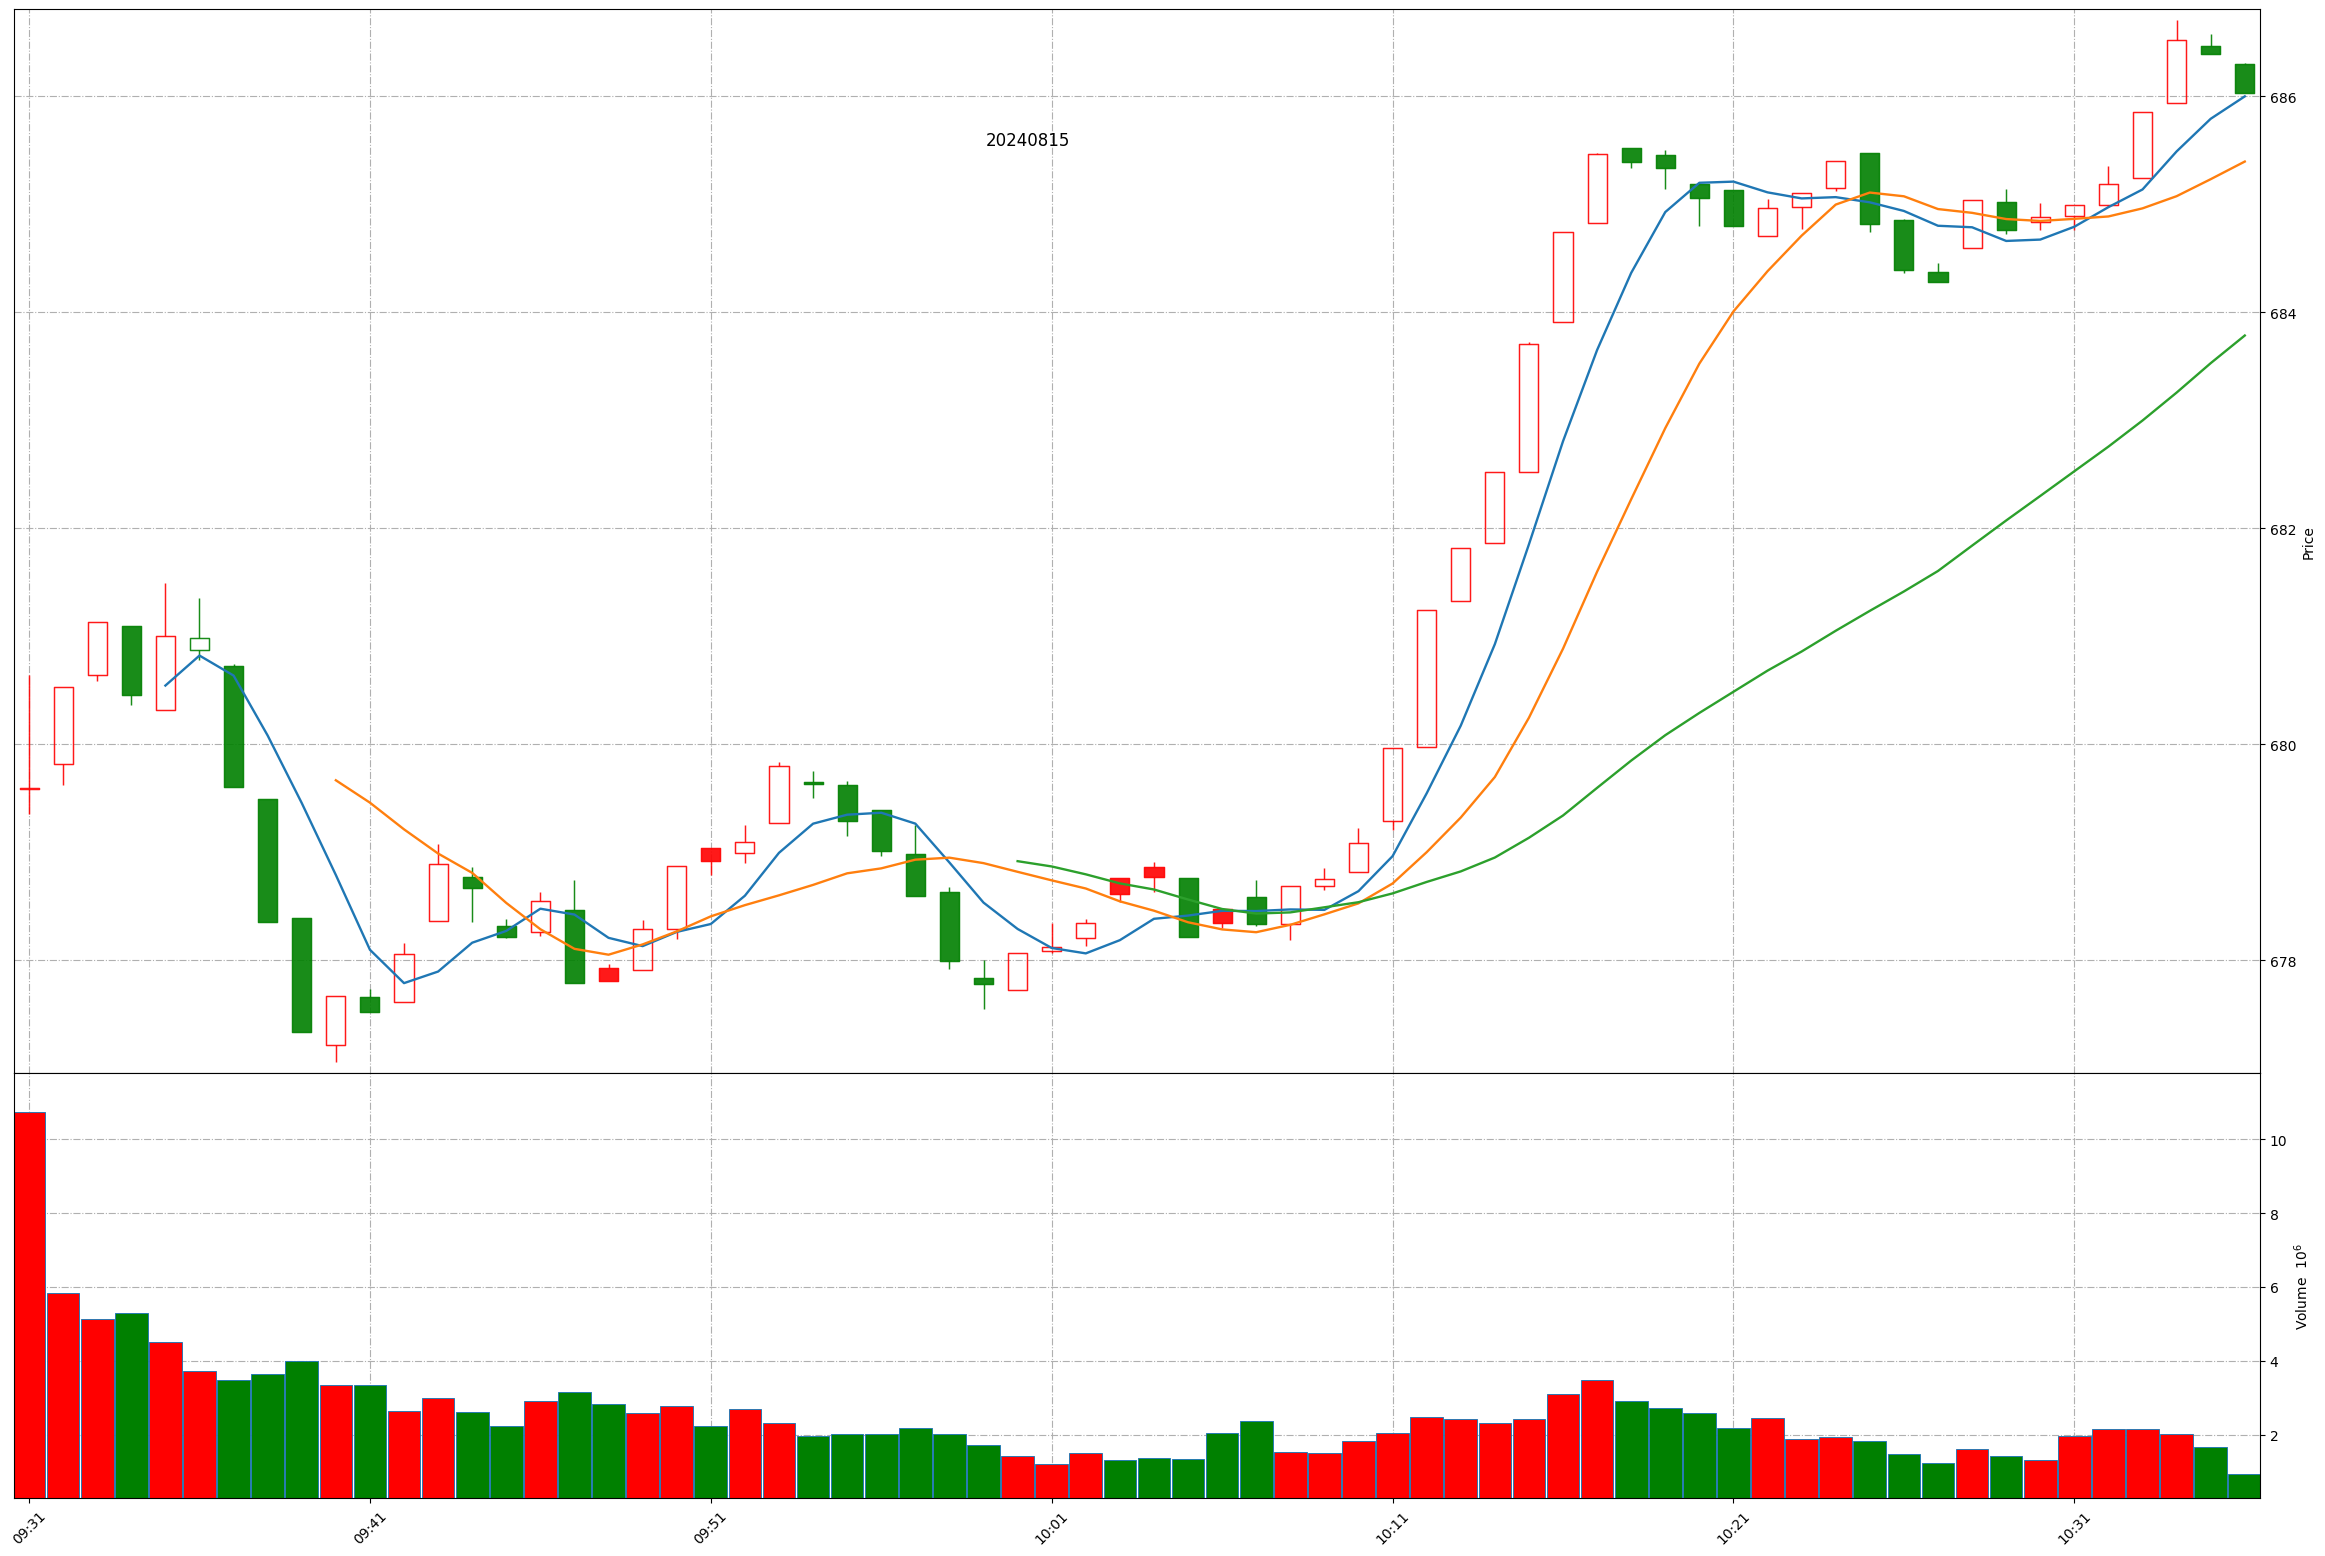
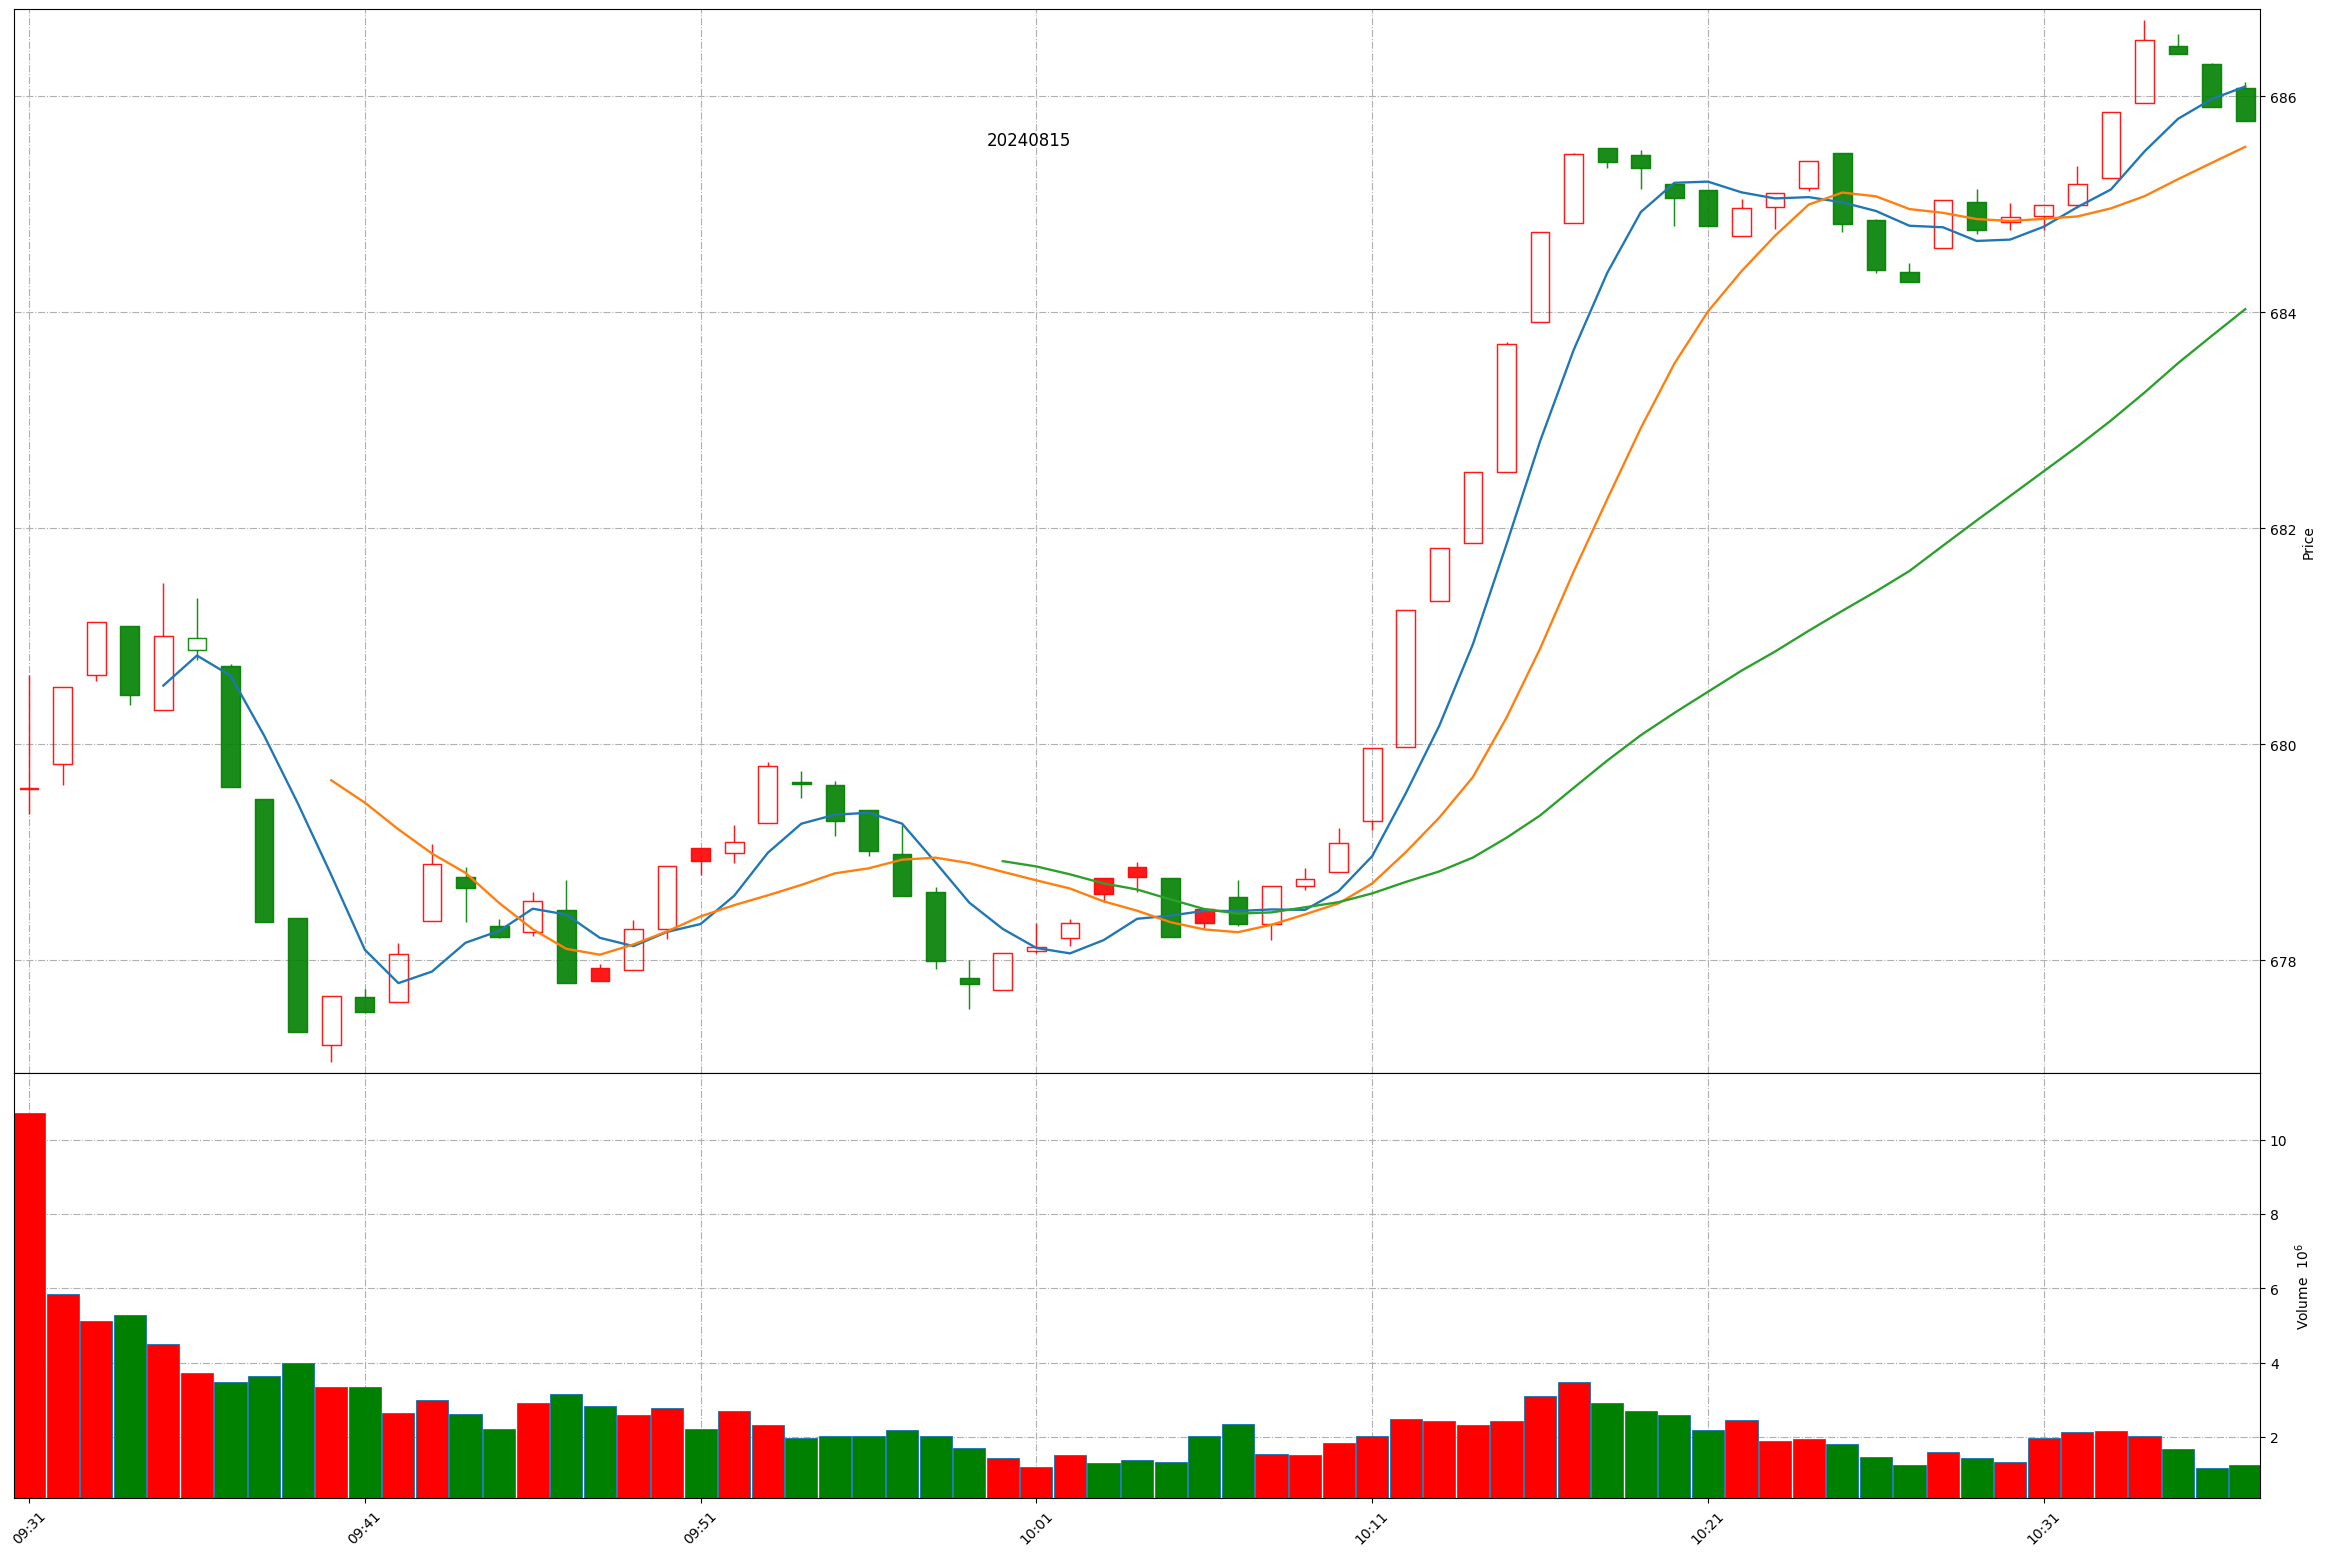
Github action update at 2024-08-15 10:37:15.

diff --git a/README.md b/README.md
@@ -1,11 +1,11 @@
 
 # Daily-A-share-market-quotes 每日 A 股指数（5min 更新）- 20240815
 
-### 上证指数 20240815 10:36
+### 上证指数 20240815 10:37
 ![](./fig/2024/8/20240815-sh000001.png)
 
-### 深证成指 20240815 10:36
+### 深证成指 20240815 10:37
 ![](./fig/2024/8/20240815-sz399001.png)
 
-### 北证50 20240815 10:36
+### 北证50 20240815 10:37
 ![](./fig/2024/8/20240815-bj899050.png)
